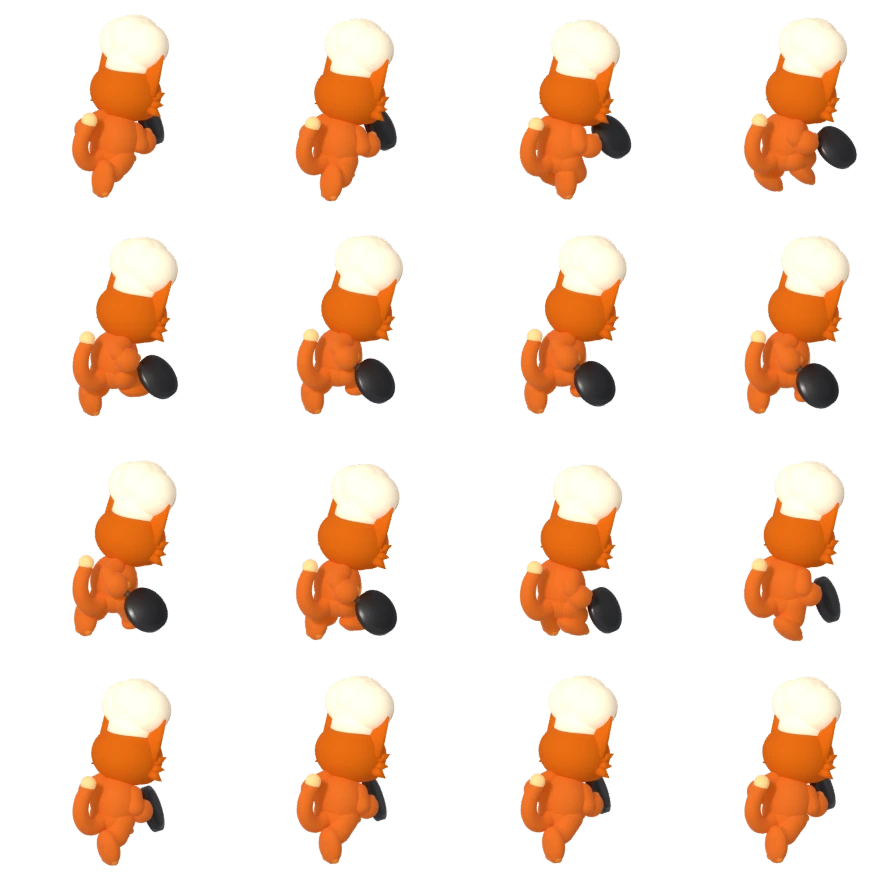
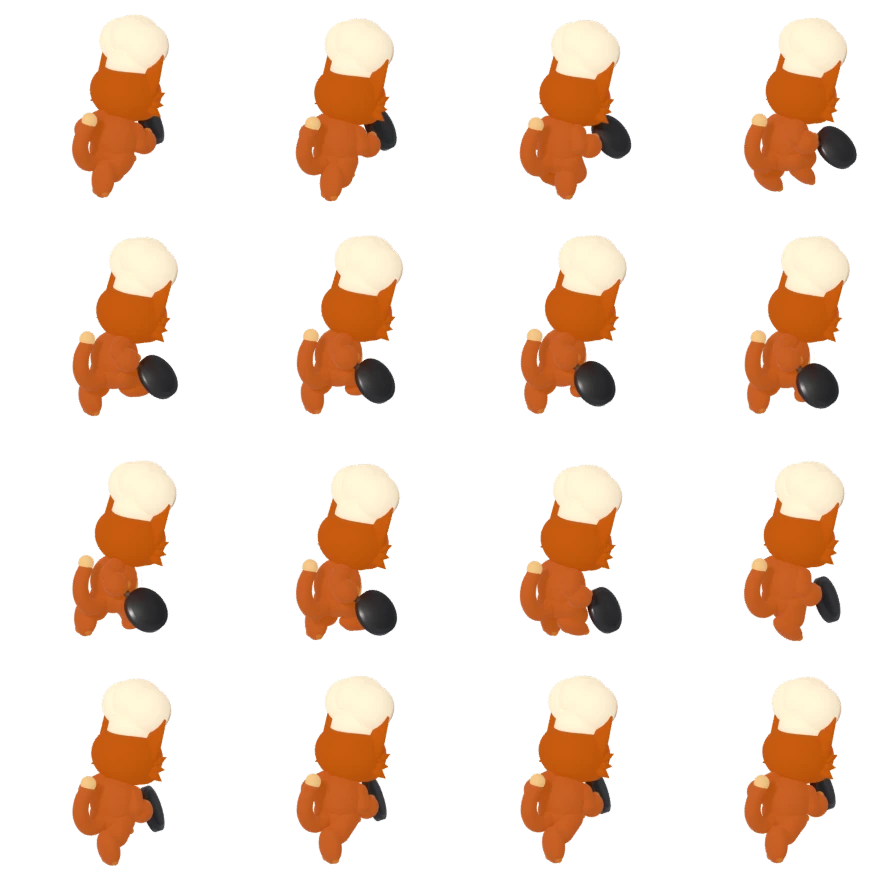
Chat chef 3D : tête et corps de la même couleur (même éclairage partout), mémoire à jour
Claude-Session: https://claude.ai/code/session_011iTQJ3ptn1M89syPvc6cfN

diff --git a/tools/blender/chef.py b/tools/blender/chef.py
@@ -30,7 +30,7 @@ CHAR_SCALE = 0.31   # taille du personnage par rapport à la carte : environ 56 
 ANIMS = {"idle": "Idle_Loop", "marche": "Walk_Loop", "course": "Jog_Fwd_Loop", "attaque": "Sword_Attack", "touche": "Hit_Chest", "mort": "Death01"}
 
 SPECS = {
-    "moustachu": dict(fur=(0.53, 0.10, 0.002), light=(0.77, 0.37, 0.13), apron=(0.93, 0.82, 0.62), scarf=(0.80, 0.10, 0.08),
+    "moustachu": dict(fur=(0.50, 0.09, 0.001), light=(0.77, 0.37, 0.13), apron=(0.93, 0.82, 0.62), scarf=(0.80, 0.10, 0.08),
                       hat=(0.96, 0.83, 0.62), ear_in=(0.95, 0.55, 0.60), eye=(0.55, 0.28, 0.05), tail_tip=(0.85, 0.37, 0.06),
                       paint=dict(img="moustachu_tete.png", px=(207.5, 60, 0, 295, 330), chin_z=0.76, top_z=1.93, row_chin=330,
                                  torso=dict(img="moustachu_plastron.png", px=(207.5, 112, 332, 196, 153)))),
@@ -51,8 +51,10 @@ def mat(name, color, rough=0.7, bump=0.0):
         b.inputs["Sheen Roughness"].default_value = 0.35
         b.inputs["Subsurface Weight"].default_value = 0.05
         b.inputs["Subsurface Radius"].default_value = (0.6, 0.25, 0.1)
-        b.inputs["Emission Color"].default_value = (*color, 1)   # même éclat que la tête peinte : la tête et le corps ont la même couleur
-        b.inputs["Emission Strength"].default_value = 0.5
+        # même mode d'éclairage que la tête peinte (émission 0,78 + 30 % de la lumière de la scène) : la tête et le corps ont la même couleur
+        b.inputs["Base Color"].default_value = (color[0] * 0.3, color[1] * 0.3, color[2] * 0.3, 1)
+        b.inputs["Emission Color"].default_value = (*color, 1)
+        b.inputs["Emission Strength"].default_value = 0.78
         n = nt.nodes.new("ShaderNodeTexNoise")
         n.inputs["Scale"].default_value = 260
         n.inputs["Detail"].default_value = 4
@@ -318,12 +320,12 @@ def painted_material(name, imgfile, box, back, k, chin_z, row_chin, clip=False):
     full.data_type = "RGBA"
     nt.links.new(sm.outputs[0], full.inputs[0])
     nt.links.new(dim.outputs[2], full.inputs[6])
-    full.inputs[7].default_value = (*back, 1)
+    full.inputs[7].default_value = (back[0] * 0.3, back[1] * 0.3, back[2] * 0.3, 1)
     nt.links.new(full.outputs[2], b.inputs["Base Color"])
     nt.links.new(mix.outputs[2], b.inputs["Emission Color"])
     emk = nt.nodes.new("ShaderNodeMapRange")                # émission : 0,78 sur la peinture, 0,35 sur la couleur unie
     emk.inputs["To Min"].default_value = 0.78
-    emk.inputs["To Max"].default_value = 0.35
+    emk.inputs["To Max"].default_value = 0.78
     nt.links.new(sm.outputs[0], emk.inputs["Value"])
     nt.links.new(emk.outputs["Result"], b.inputs["Emission Strength"])
     b.inputs["Roughness"].default_value = 0.9
@@ -348,7 +350,7 @@ def painted_head():
     bpy.context.collection.objects.link(ref)
     ref.location = (0, 0, 0)
     REF[0] = ref
-    PH = painted_material("tete_peinte", P["img"], P["px"], (0.53, 0.10, 0.002), k, P["chin_z"], P["row_chin"])
+    PH = painted_material("tete_peinte", P["img"], P["px"], SPEC["fur"], k, P["chin_z"], P["row_chin"])
     PT = painted_material("toque_peinte", P["img"], P["px"], SPEC["hat"], k, P["chin_z"], P["row_chin"])
     z = 1.07
     objs = [ball((0, 0, z), 0.5, PH, scale=(0.82, 0.72, 0.64), seg=40),

diff --git a/docs/memoire/JOURNAL.md b/docs/memoire/JOURNAL.md
@@ -15,6 +15,7 @@ Pour reprendre vite : lire d'abord [[REPRISE]] (`docs/memoire/REPRISE.md`).
 - **Ressemblance du chat (suite, 17/11 soir)** : la tête (visage, yeux, sourcils, oreilles, toque) et le plastron (foulard rouge, tablier) du chat 3D sont maintenant la **peinture d'origine projetée de face** sur des volumes 3D accrochés aux os (`painted_head()` dans `chef.py`, images recadrées dans `tools/blender/_work/`, produites depuis `public/assets/sprites3d/moustachu.png`). De face, on retrouve le dessin à l'identique ; sur les côtés et le dessus, la matière passe à une couleur unie (la peinture s'étire sinon). Le profil et le dos sont donc plus simples que le dessin. Pour un autre chef : ajouter une entrée dans `SPECS` avec les zones de la peinture (`paint`), recadrer la tête et le plastron, relancer `chef.py ... jeu` puis `pack_anim.py`.
 - **Chat chef : le dos et les côtés, corrigés (17/11 nuit)** : Rudy trouvait le chat « mal fini » de dos et pas identique. Corrections dans `chef.py` : couleurs mesurées sur la peinture (joues, membres, ventre, queue, toque), queue en tube lisse à bout crème (courbe de Bézier), bras et jambes fondus en une surface lisse (remaillage `REMESH` voxel dans `capsule()`), oreilles aplaties, poêle plus grande avec rebord, couleur unie éclairée sur les côtés, le dessus et le dos de la tête/toque (elle ne dépend plus de l'émission). Mode `angles` pour comparer les 5 angles avec l'original. Piège : un remplacement de texte trop large dans `chef.py` avait effacé la tête peinte ; toujours remplacer un bloc précis et relancer un rendu de contrôle.
 - **Chat chef : même couleur tête et corps (17/11 nuit)** : Rudy a vu la tête vive et le corps terne (mesure : tête 212-98-17, torse 168-95-51, jambes 142-78-46). Les matières « fourrure » prennent la couleur mesurée sur la peinture et la même émission que la tête (`mat()` dans `chef.py`), peu de duvet blanc ; après correction : tête 212-98-17, torse 229-122-51, jambes 208-99-36. **Nouveau fichier de mémoire technique : `docs/memoire/ATELIER-BLENDER.md`** (outils, méthode, ressources, erreurs à ne pas refaire, check-list avant fusion) ; `CLAUDE.md` et `REPRISE.md` y renvoient. Règle ajoutée : montrer une image comparée à l'original et attendre l'accord de Rudy avant de fusionner du visuel.
+- **Chat chef : couleur tête / corps, deuxième correction (17/11 nuit)** : après la fusion, Rudy a revu une différence de couleur. La moyenne des pixels était proche mais la tête (peinture, émission) et le corps (éclairé, plus clair et bleuté) ne se ressemblaient pas. Toute la matière suit maintenant la même formule que la peinture (base × 0,3 + émission 0,78), couleur de fourrure mesurée sur les joues peintes. Leçon ajoutée dans `ATELIER-BLENDER.md` (n° 12). Version sur la branche de travail, à fusionner après l'accord de Rudy.
 - Pas fait : la poêle (tenue de façon peu naturelle), les autres personnages, les cartes restantes ; la caméra des personnages est à 18 degrés (presque de face, comme la peinture).
 - **Licences** : les modèles Quaternius sont libres pour un jeu commercial sans citer l'auteur ; on ne peut pas redistribuer les modèles eux-mêmes. Ils ne sont donc PAS dans le dépôt (seuls les rendus le sont). Dossier lu par défaut : `/home/user/walterpalladino/godot-quaternius-ultimate-stylized-nature/...` (dépôt GitHub public cloné avec `add_repo`) et `/home/user/j-ponzo/gltf-universal-animation-library`.
 - **Obsidian** : Claude ne peut pas lire le disque du PC de Rudy depuis le cloud (aucun dossier partagé par Remote Control). Le journal du projet voyage par GitHub (`git pull` sur le PC).

diff --git a/docs/memoire/ATELIER-BLENDER.md b/docs/memoire/ATELIER-BLENDER.md
@@ -42,7 +42,7 @@ Dans le jeu : `BootScene` charge `rig_<chef>_<anim>_<direction>` ; `Chef.ts` (`a
 - Un personnage fabriqué « à la main » par code ne ressemble PAS au dessin (essais 1 et 2 : mannequin à tête de chat, puis chat à proportions de dessin animé : reconnaissable mais pas identique).
 - Ce qui donne l'identique : **projeter la peinture d'origine de face** (tête, toque, foulard, tablier) sur des volumes 3D accrochés aux os, repère qui suit l'os (`painted_material` dans `chef.py`). De face = le dessin ; sur les côtés/dessus/dos = couleur unie éclairée (la projection s'étire sinon).
 - Ne PAS découper par la transparence de la peinture : vu de côté, la tête devient fantôme. Étaler les couleurs au-delà du contour (`scipy.ndimage.distance_transform_edt`) et ajuster les volumes à la silhouette.
-- **La tête et le corps doivent avoir la même couleur** (faute de Rudy du 17/11 soir : tête vive, corps terne). Mesurer les pixels sur un rendu (zones tête / torse / jambes) et comparer. Les matières « fourrure » ont la même émission que la tête peinte.
+- **La tête et le corps doivent avoir la même couleur** (Rudy l'a signalé deux fois le 17/11 : tête vive, corps terne, puis encore une différence visible). Même formule d'éclairage partout (émission dominante) ; mesurer les pixels (tête / torse / jambes) ET regarder l'image zoomée.
 - Pour un nouveau personnage : entrée dans `SPECS`, recadrer tête et plastron dans la peinture (`tools/blender/_work/`), couleurs mesurées sur la peinture, lancer `chef.py ... apercu/angles`, comparer, puis `jeu`.
 
 ## 5. Réglages qui comptent
@@ -68,6 +68,7 @@ Dans le jeu : `BootScene` charge `rig_<chef>_<anim>_<direction>` ; `Chef.ts` (`a
 8. **Découpe par transparence sur des volumes arrondis** : tête fantôme de côté. → pas d'alpha, couleurs étalées, couleur unie selon la normale.
 9. **Tester un seul angle** : le dos et le profil étaient mauvais. → toujours le mode `angles`.
 10. **Domaines réseau saisis sur une seule ligne** : refusé. → une adresse par ligne, case « gestionnaires de paquet » cochée.
+12. **Couleur tête / corps « corrigée » mais pas vraiment (17/11 nuit)** : la moyenne des pixels était proche, mais la tête (peinture, émission) et le corps (éclairé par la scène, plus clair et bleuté) ne se ressemblaient pas à l'œil. → toute la matière du personnage suit la MÊME formule que la peinture : couleur de base × 0,3 + émission 0,78 de la couleur (`mat()` fourrure et `painted_material`), couleur de fourrure mesurée sur les joues peintes. Ne pas se fier à la seule moyenne : regarder les images zoomées, comparer la teinte ET la luminosité, et montrer à Rudy avant de fusionner.
 11. **Dire « fusionné » sans l'être** (et inversement) : vérifier avec l'état du dépôt avant de répondre.
 
 ## 8. Pour aller 10 fois plus vite
